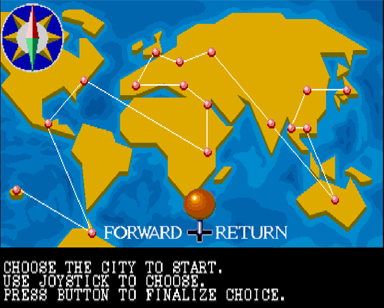
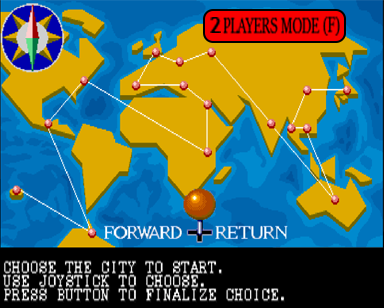
Seleccion de nivel Multiplayer Done

Changed region(s): [[0.5312, 0.0292, 0.9062, 0.1461]]

diff --git a/pang/js/worldmap.js b/pang/js/worldmap.js
@@ -69,7 +69,7 @@ platformer.worldmap ={
         //Al principio el selector esta estatico
         if(this.timeflow == 20){
         this.selector.animations.play('move');
-        this.MapName.setText("BARCELONA");
+        this.MapName.setText("MT. FUJI");
         this.Stage.setText("1-1 STAGE");
         }
         
@@ -204,19 +204,25 @@ platformer.worldmap ={
         this.Stage.setText("17-1 STAGE")
         }
         
-        //Si Pulsamos Pause seleccionamos ese nivel en concreto
+        //Si Pulsamos Sapce seleccionamos ese nivel en concreto
         if (this.space.isDown){
-            //SALTAR AL NIVEL LEVEL1 POR AHORA
             this.selectedLevel = true;
             this.canChangeLevel2 = false;
         }
+        else if (this.game.input.keyboard.isDown(Phaser.Keyboard.F)){
+            this.selectedLevel = true;
+            this.currentLevel = 18;
+        }
+        
         //CUANDO SELECCIONAMOS EL NIVEL EMPIEZA A PARPADEAR EL SELECTOR Y AL CABO DE X TIEMPO ENTRAMOS EN EL MAPA
         if ( this.selectedLevel == true){
             if (this.boolSoundButton == false){
                 this.soundEffect.play();
                 this.boolSoundButton = true;
                 }
+            if (this.currentLevel < 18){
             this.selector.animations.play('selected');
+            }
             if(this.timeflow >= 0){
                 this.timeflow -= 0.25;
             }
@@ -307,6 +313,11 @@ platformer.worldmap ={
                     gameOptions.currentLevel = 17;
                     gameOptions.currentLevelName = "EASTER ISLAND"
                 this.state.start('level');   //NIVEL17
+                }
+                else if( this.currentLevel == 18){
+                gameOptions.currentLevel = 18;
+                gameOptions.currentLevelName = "MULTIPLAYER LEVEL"
+                this.state.start('level');   //NIVEL18
                 }
             }
         }

diff --git a/pang/js/level.js b/pang/js/level.js
@@ -224,6 +224,16 @@ platformer.level ={
             this.load.image('stairs','assets/UtilsLevel/stairs.png');
             this.load.image('unbreakable_platform','assets/UtilsLevel/unbreakable_platform.png');
             }
+            
+            else if (gameOptions.currentLevel == 18){
+            this.load.image('bg','assets/img/BG/BG18.png');    
+            this.load.audio('musica', 'assets/audio/music/M17.mp3');
+            //CARGA DEL MAPA
+            this.load.tilemap('Tilemap','assets/tilemaps/TilemapGUI.json',null,Phaser.Tilemap.TILED_JSON);
+            this.load.image('border','assets/UtilsLevel/border.png');
+            this.load.image('stairs','assets/UtilsLevel/stairs.png');
+            this.load.image('unbreakable_platform','assets/UtilsLevel/unbreakable_platform.png');
+            }
             //#endRegion
         }
 
@@ -333,6 +343,9 @@ platformer.level ={
             } 
             else if (gameOptions.currentLevel == 17){
                 this.hud = new platformer.HUD(this.game,this,gameOptions.currentLevelName,"17-1 Stage",this.highScore);
+            }
+            else if (gameOptions.currentLevel == 18){
+                this.hud = new platformer.HUD(this.game,this,gameOptions.currentLevelName,"Get the best Score!",this.highScore);
             }
             else{
                 this.hud = new platformer.HUD(this.game,this,"OUT OF RANGE","1-1 Stage",this.highScore);
